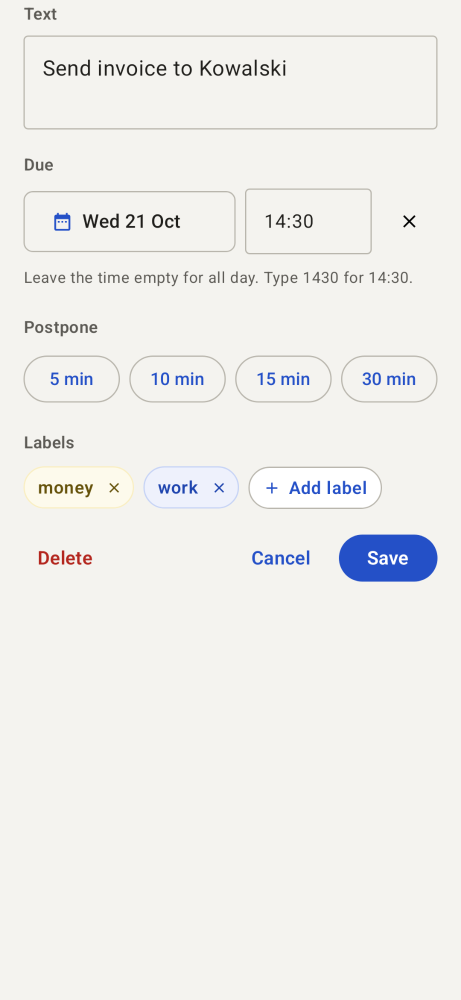
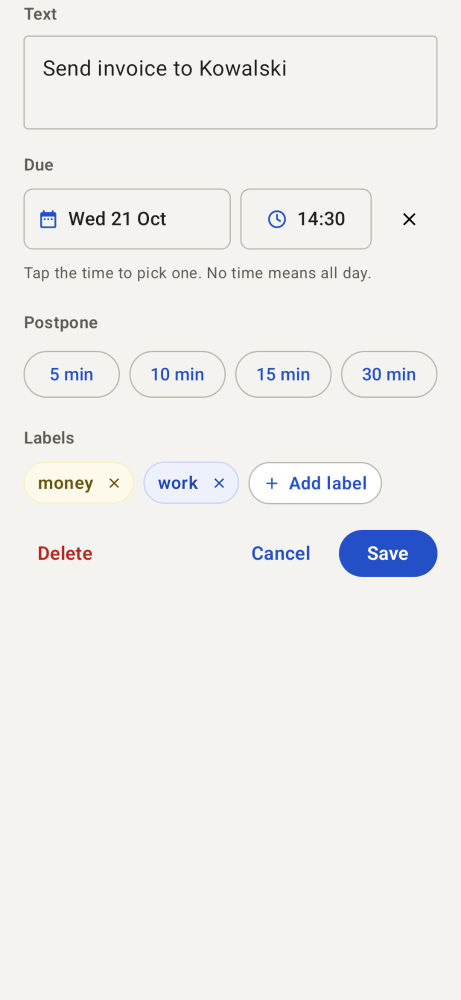
feat(android): "Date" button and a 24-hour time picker in the item sheet
The date button has less padding and shows "Date" when empty, so it fits on a
360 dp phone. The time field is now a button that opens the Material 3 time
picker, with a keyboard mode and "All day". The API still gets "HH:MM".

diff --git a/android/app/src/main/kotlin/dev/toodoo/ui/ItemSheet.kt b/android/app/src/main/kotlin/dev/toodoo/ui/ItemSheet.kt
@@ -2,6 +2,7 @@ package dev.toodoo.ui
 
 import androidx.compose.foundation.BorderStroke
 import androidx.compose.foundation.layout.Arrangement
+import androidx.compose.foundation.layout.Box
 import androidx.compose.foundation.layout.Column
 import androidx.compose.foundation.layout.ExperimentalLayoutApi
 import androidx.compose.foundation.layout.FlowRow
@@ -22,12 +23,14 @@ import androidx.compose.material.icons.Icons
 import androidx.compose.material.icons.filled.Add
 import androidx.compose.material.icons.filled.Close
 import androidx.compose.material.icons.filled.DateRange
+import androidx.compose.material3.BasicAlertDialog
 import androidx.compose.material3.Button
 import androidx.compose.material3.DatePicker
 import androidx.compose.material3.DatePickerDialog
 import androidx.compose.material3.ExperimentalMaterial3Api
 import androidx.compose.material3.Icon
 import androidx.compose.material3.IconButton
+import androidx.compose.material3.LocalContentColor
 import androidx.compose.material3.MaterialTheme
 import androidx.compose.material3.ModalBottomSheet
 import androidx.compose.material3.OutlinedButton
@@ -35,8 +38,12 @@ import androidx.compose.material3.OutlinedTextField
 import androidx.compose.material3.Surface
 import androidx.compose.material3.Text
 import androidx.compose.material3.TextButton
+import androidx.compose.material3.TimeInput
+import androidx.compose.material3.TimePicker
+import androidx.compose.material3.TimePickerState
 import androidx.compose.material3.rememberDatePickerState
 import androidx.compose.material3.rememberModalBottomSheetState
+import androidx.compose.material3.rememberTimePickerState
 import androidx.compose.runtime.Composable
 import androidx.compose.runtime.getValue
 import androidx.compose.runtime.mutableStateOf
@@ -50,13 +57,14 @@ import androidx.compose.ui.semantics.contentDescription
 import androidx.compose.ui.semantics.semantics
 import androidx.compose.ui.text.font.FontWeight
 import androidx.compose.ui.text.input.KeyboardCapitalization
-import androidx.compose.ui.text.input.KeyboardType
+import androidx.compose.ui.text.style.TextOverflow
 import androidx.compose.ui.unit.dp
 import androidx.compose.ui.unit.sp
 import dev.toodoo.api.Item
 import dev.toodoo.api.Label
 import java.time.Instant
 import java.time.LocalDate
+import java.time.LocalTime
 import java.time.ZoneId
 import java.time.ZoneOffset
 import java.time.format.DateTimeFormatter
@@ -67,7 +75,29 @@ import kotlinx.coroutines.launch
 val POSTPONE_MINUTES = listOf(5, 10, 15, 30)
 
 private val dateButton = DateTimeFormatter.ofPattern("EEE d MMM", Locale.ENGLISH)
-private val dateButtonYear = DateTimeFormatter.ofPattern("EEE d MMM yyyy", Locale.ENGLISH)
+private val dateButtonYear = DateTimeFormatter.ofPattern("d MMM yyyy", Locale.ENGLISH)
+
+/** The date button's text: "Date" with no date; the weekday only in this year, so the text stays short. */
+fun dateButtonText(date: LocalDate?, today: LocalDate): String =
+    date?.format(if (date.year == today.year) dateButton else dateButtonYear) ?: "Date"
+
+/** The time button's text: the time, "All day" for a date with no time, or "Time" with no date. */
+fun timeButtonText(time: String, hasDate: Boolean): String = when {
+    !hasDate -> "Time"
+    time.isEmpty() -> "All day"
+    else -> time
+}
+
+/** The hour and minute the time picker opens at: the item's time ("HH:MM"), or the next full hour. */
+fun pickerStart(time: String, now: LocalTime): Pair<Int, Int> {
+    val parts = time.split(":")
+    val hour = parts.getOrNull(0)?.toIntOrNull()
+    val minute = parts.getOrNull(1)?.toIntOrNull()
+    return if (hour != null && minute != null) Pair(hour, minute) else Pair((now.hour + 1) % 24, 0)
+}
+
+/** "HH:MM", as the API takes it. */
+fun clockText(hour: Int, minute: Int): String = "%02d:%02d".format(hour, minute)
 
 /** The due date and time of [item] in [zone], as the sheet's fields show them: the time is "" for all day. */
 fun dueFields(item: Item, zone: ZoneId): Pair<LocalDate?, String> {
@@ -116,6 +146,7 @@ fun ItemSheetBody(
     var date by remember(item.id, startDate) { mutableStateOf(startDate) }
     var time by rememberSaveable(item.id, startTime) { mutableStateOf(startTime) }
     var picking by remember { mutableStateOf(false) }
+    var pickingTime by remember { mutableStateOf(false) }
     var busy by remember { mutableStateOf(false) }
     val scope = rememberCoroutineScope()
     val colors = MaterialTheme.colorScheme
@@ -154,24 +185,29 @@ fun ItemSheetBody(
         Column(verticalArrangement = Arrangement.spacedBy(8.dp)) {
             label("Due")
             Row(horizontalArrangement = Arrangement.spacedBy(8.dp), verticalAlignment = Alignment.CenterVertically) {
+                // 12 dp side padding (not the default 24), so a date fits on a 360 dp phone.
                 OutlinedButton(
                     onClick = { picking = true },
                     shape = RoundedCornerShape(8.dp),
+                    contentPadding = PaddingValues(horizontal = 12.dp),
                     modifier = Modifier.weight(1f).height(52.dp),
                 ) {
                     Icon(Icons.Filled.DateRange, contentDescription = null, modifier = Modifier.size(18.dp))
                     Spacer(Modifier.width(8.dp))
-                    Text(date?.let { it.format(if (it.year == LocalDate.now(zone).year) dateButton else dateButtonYear) } ?: "Pick a date", maxLines = 1, fontSize = 16.sp, color = colors.onSurface, modifier = Modifier.weight(1f))
+                    Text(dateButtonText(date, LocalDate.now(zone)), maxLines = 1, overflow = TextOverflow.Ellipsis, fontSize = 16.sp, color = colors.onSurface, modifier = Modifier.weight(1f))
                 }
-                OutlinedTextField(
-                    value = time,
-                    onValueChange = { time = it.take(5) },
-                    placeholder = { Text("All day", fontSize = 15.sp) },
-                    singleLine = true,
+                val timeText = timeButtonText(time, hasDate = date != null)
+                OutlinedButton(
+                    onClick = { pickingTime = true },
                     enabled = date != null,
-                    keyboardOptions = KeyboardOptions(keyboardType = KeyboardType.Number),
-                    modifier = Modifier.width(108.dp).semantics { contentDescription = "Time" },
-                )
+                    shape = RoundedCornerShape(8.dp),
+                    contentPadding = PaddingValues(horizontal = 12.dp),
+                    modifier = Modifier.width(112.dp).height(52.dp).semantics { contentDescription = "Time: $timeText" },
+                ) {
+                    ClockIcon(LocalContentColor.current)
+                    Spacer(Modifier.width(8.dp))
+                    Text(timeText, maxLines = 1, fontSize = 16.sp, color = if (date != null) colors.onSurface else LocalContentColor.current)
+                }
                 IconButton(onClick = {
                     date = null
                     time = ""
@@ -179,7 +215,7 @@ fun ItemSheetBody(
                     Icon(Icons.Filled.Close, contentDescription = "Clear the due date", modifier = Modifier.size(18.dp))
                 }
             }
-            Text("Leave the time empty for all day. Type 1430 for 14:30.", fontSize = 13.sp, color = colors.onSurfaceVariant)
+            Text("Tap the time to pick one. No time means all day.", fontSize = 13.sp, color = colors.onSurfaceVariant)
         }
 
         if (item.dueAt != null && !item.done) {
@@ -235,6 +271,56 @@ fun ItemSheetBody(
             },
             dismissButton = { TextButton(onClick = { picking = false }) { Text("Cancel") } },
         ) { DatePicker(state) }
+    }
+
+    if (pickingTime) {
+        TimePickerDialog(time, zone, onPick = {
+            time = it
+            pickingTime = false
+        }, onDismiss = { pickingTime = false })
+    }
+}
+
+/**
+ * The time picker (mockup "Date button and time picker", page 17): the
+ * 24-hour dial, as in Google Calendar. [onPick] gets "HH:MM", or "" for
+ * "All day".
+ */
+@OptIn(ExperimentalMaterial3Api::class)
+@Composable
+fun TimePickerDialog(time: String, zone: ZoneId, onPick: (String) -> Unit, onDismiss: () -> Unit) {
+    val (hour, minute) = remember(time) { pickerStart(time, LocalTime.now(zone)) }
+    val state = rememberTimePickerState(initialHour = hour, initialMinute = minute, is24Hour = true)
+    BasicAlertDialog(onDismissRequest = onDismiss) {
+        TimePickerBody(state, onOk = { onPick(clockText(state.hour, state.minute)) }, onAllDay = { onPick("") }, onDismiss = onDismiss)
+    }
+}
+
+/** The inside of the time picker. The keyboard icon switches to two number fields and back. */
+@OptIn(ExperimentalMaterial3Api::class)
+@Composable
+fun TimePickerBody(state: TimePickerState, onOk: () -> Unit, onAllDay: () -> Unit, onDismiss: () -> Unit, startTyping: Boolean = false) {
+    var typing by rememberSaveable { mutableStateOf(startTyping) }
+    val colors = MaterialTheme.colorScheme
+    Surface(shape = RoundedCornerShape(28.dp), color = colors.surface, tonalElevation = 6.dp) {
+        Column(Modifier.padding(24.dp), verticalArrangement = Arrangement.spacedBy(20.dp)) {
+            Text(if (typing) "Enter time" else "Select time", fontSize = 13.sp, fontWeight = FontWeight.SemiBold, color = colors.onSurfaceVariant)
+            Box(Modifier.fillMaxWidth(), contentAlignment = Alignment.Center) {
+                if (typing) TimeInput(state) else TimePicker(state)
+            }
+            Row(verticalAlignment = Alignment.CenterVertically) {
+                IconButton(
+                    onClick = { typing = !typing },
+                    modifier = Modifier.semantics { contentDescription = if (typing) "Use the clock dial" else "Type the time" },
+                ) {
+                    if (typing) ClockIcon(colors.onSurfaceVariant, size = 24.dp) else KeyboardIcon(colors.onSurfaceVariant)
+                }
+                Spacer(Modifier.weight(1f))
+                TextButton(onClick = onAllDay) { Text("All day") }
+                TextButton(onClick = onDismiss) { Text("Cancel") }
+                TextButton(onClick = onOk) { Text("OK") }
+            }
+        }
     }
 }
 

diff --git a/android/app/src/test/kotlin/dev/toodoo/ScreenshotTest.kt b/android/app/src/test/kotlin/dev/toodoo/ScreenshotTest.kt
@@ -7,11 +7,15 @@ import androidx.activity.result.contract.ActivityResultContract
 import androidx.compose.foundation.background
 import androidx.compose.foundation.layout.Box
 import androidx.compose.foundation.layout.fillMaxSize
+import androidx.compose.foundation.layout.padding
+import androidx.compose.material3.ExperimentalMaterial3Api
 import androidx.compose.material3.MaterialTheme
+import androidx.compose.material3.rememberTimePickerState
 import androidx.compose.runtime.Composable
 import androidx.compose.runtime.CompositionLocalProvider
 import androidx.core.app.ActivityOptionsCompat
 import androidx.compose.ui.Modifier
+import androidx.compose.ui.unit.dp
 import app.cash.paparazzi.DeviceConfig
 import app.cash.paparazzi.Paparazzi
 import com.android.resources.NightMode
@@ -24,6 +28,7 @@ import dev.toodoo.ui.ListActions
 import dev.toodoo.ui.ListScreen
 import dev.toodoo.ui.ListState
 import dev.toodoo.ui.PickerMode
+import dev.toodoo.ui.TimePickerBody
 import dev.toodoo.ui.TooDooTheme
 import java.time.LocalDate
 import java.time.ZoneId
@@ -126,6 +131,43 @@ class ScreenshotTest {
     @Test
     fun itemSheet() = snap {
         ItemSheetBody(items[1], onSave = { _, _ -> true }, onPostpone = {}, onRemoveLabel = {}, onAddLabel = {}, onDelete = {}, onDismiss = {})
+    }
+
+    // No date: "Date", and the time button is off.
+    @Test
+    fun itemSheetNoDate() = snap {
+        ItemSheetBody(items[2], onSave = { _, _ -> true }, onPostpone = {}, onRemoveLabel = {}, onAddLabel = {}, onDelete = {}, onDismiss = {})
+    }
+
+    // A 360 dp phone and a date in another year, the longest date text: it must fit.
+    @Test
+    fun itemSheetSmallPhone() {
+        paparazzi.unsafeUpdateConfig(DeviceConfig.NEXUS_5)
+        val nextYear = ZonedDateTime.now().plusYears(1).withHour(14).withMinute(30).toInstant().toString()
+        snap {
+            ItemSheetBody(items[1].copy(dueAt = nextYear), onSave = { _, _ -> true }, onPostpone = {}, onRemoveLabel = {}, onAddLabel = {}, onDelete = {}, onDismiss = {})
+        }
+    }
+
+    @Test
+    fun itemSheetAllDay() = snap {
+        ItemSheetBody(items[3], onSave = { _, _ -> true }, onPostpone = {}, onRemoveLabel = {}, onAddLabel = {}, onDelete = {}, onDismiss = {})
+    }
+
+    @OptIn(ExperimentalMaterial3Api::class)
+    @Test
+    fun timePicker() = snap {
+        Box(Modifier.padding(24.dp)) {
+            TimePickerBody(rememberTimePickerState(14, 30, is24Hour = true), onOk = {}, onAllDay = {}, onDismiss = {})
+        }
+    }
+
+    @OptIn(ExperimentalMaterial3Api::class)
+    @Test
+    fun timeInput() = snap {
+        Box(Modifier.padding(24.dp)) {
+            TimePickerBody(rememberTimePickerState(14, 30, is24Hour = true), onOk = {}, onAllDay = {}, onDismiss = {}, startTyping = true)
+        }
     }
 
     @Test

diff --git a/android/app/src/main/kotlin/dev/toodoo/ui/Icons.kt b/android/app/src/main/kotlin/dev/toodoo/ui/Icons.kt
@@ -4,11 +4,15 @@ import androidx.compose.foundation.Canvas
 import androidx.compose.foundation.layout.size
 import androidx.compose.runtime.Composable
 import androidx.compose.ui.Modifier
+import androidx.compose.ui.geometry.CornerRadius
 import androidx.compose.ui.geometry.Offset
+import androidx.compose.ui.geometry.Size
 import androidx.compose.ui.graphics.Color
 import androidx.compose.ui.graphics.Path
+import androidx.compose.ui.graphics.StrokeCap
 import androidx.compose.ui.graphics.StrokeJoin
 import androidx.compose.ui.graphics.drawscope.Stroke
+import androidx.compose.ui.unit.Dp
 import androidx.compose.ui.unit.dp
 
 // Icons that material-icons-core lacks, drawn like the mockups (page 17).
@@ -40,5 +44,33 @@ fun TagIcon(color: Color, modifier: Modifier = Modifier) {
         }
         drawPath(path, color, style = Stroke(width = 1.8f * u, join = StrokeJoin.Round))
         drawCircle(color, 1.6f * u, Offset(8 * u, 8 * u))
+    }
+}
+
+/** A clock, for the time button and for the dial switch of the time picker. */
+@Composable
+fun ClockIcon(color: Color, modifier: Modifier = Modifier, size: Dp = 18.dp) {
+    Canvas(modifier.size(size)) {
+        val u = this.size.width / 24f
+        drawCircle(color, 9 * u, Offset(12 * u, 12 * u), style = Stroke(width = 2f * u))
+        val hands = Path().apply {
+            moveTo(12 * u, 7 * u)
+            lineTo(12 * u, 12 * u)
+            lineTo(15.5f * u, 14 * u)
+        }
+        drawPath(hands, color, style = Stroke(width = 2f * u, cap = StrokeCap.Round, join = StrokeJoin.Round))
+    }
+}
+
+/** A keyboard, for the switch from the dial to typing the time. */
+@Composable
+fun KeyboardIcon(color: Color, modifier: Modifier = Modifier) {
+    Canvas(modifier.size(24.dp)) {
+        val u = size.width / 24f
+        drawRoundRect(color, Offset(2.5f * u, 6 * u), Size(19 * u, 12 * u), CornerRadius(2 * u), style = Stroke(width = 1.6f * u))
+        for (y in listOf(9.5f, 12.5f)) for (x in listOf(6.5f, 10f, 13.5f, 17f)) {
+            drawCircle(color, 0.9f * u, Offset(x * u, y * u))
+        }
+        drawLine(color, Offset(8 * u, 15 * u), Offset(16 * u, 15 * u), strokeWidth = 1.6f * u, cap = StrokeCap.Round)
     }
 }

diff --git a/android/app/src/test/kotlin/dev/toodoo/SheetAndWheelTest.kt b/android/app/src/test/kotlin/dev/toodoo/SheetAndWheelTest.kt
@@ -1,12 +1,17 @@
 package dev.toodoo
 
 import dev.toodoo.api.Item
+import dev.toodoo.ui.clockText
+import dev.toodoo.ui.dateButtonText
 import dev.toodoo.ui.dueFields
 import dev.toodoo.ui.hslToHex
 import dev.toodoo.ui.moveBy
+import dev.toodoo.ui.pickerStart
+import dev.toodoo.ui.timeButtonText
 import dev.toodoo.ui.wheelColor
 import dev.toodoo.ui.wheelPick
 import java.time.LocalDate
+import java.time.LocalTime
 import java.time.ZoneId
 import org.junit.Assert.assertEquals
 import org.junit.Assert.assertNull
@@ -20,6 +25,36 @@ class SheetAndWheelTest {
         assertEquals(Pair(LocalDate.of(2026, 10, 22), "14:30"), dueFields(Item(1, "a", false, dueAt = "2026-10-22T12:30:00Z"), warsaw))
         assertEquals(Pair(LocalDate.of(2026, 10, 22), ""), dueFields(Item(1, "a", false, dueAt = "2026-10-22T07:00:00Z", dueAllDay = true), warsaw))
         assertEquals(Pair(null, ""), dueFields(Item(1, "a", false), warsaw))
+    }
+
+    @Test
+    fun dateButtonShowsTheDateOrDate() {
+        val today = LocalDate.of(2026, 10, 21)
+        assertEquals("Date", dateButtonText(null, today))
+        assertEquals("Wed 21 Oct", dateButtonText(today, today))
+        assertEquals("21 Oct 2027", dateButtonText(LocalDate.of(2027, 10, 21), today))
+    }
+
+    @Test
+    fun timeButtonShowsTheTimeOrAllDay() {
+        assertEquals("Time", timeButtonText("", hasDate = false))
+        assertEquals("All day", timeButtonText("", hasDate = true))
+        assertEquals("14:30", timeButtonText("14:30", hasDate = true))
+    }
+
+    @Test
+    fun pickerStartsAtTheTimeOrTheNextHour() {
+        assertEquals(Pair(14, 30), pickerStart("14:30", LocalTime.of(9, 10)))
+        assertEquals(Pair(10, 0), pickerStart("", LocalTime.of(9, 10)))
+        assertEquals(Pair(10, 0), pickerStart("", LocalTime.of(9, 0)))
+        assertEquals(Pair(0, 0), pickerStart("", LocalTime.of(23, 30)))
+    }
+
+    @Test
+    fun clockTextHasTwoDigits() {
+        assertEquals("09:05", clockText(9, 5))
+        assertEquals("00:00", clockText(0, 0))
+        assertEquals("23:59", clockText(23, 59))
     }
 
     @Test

diff --git a/docs/user-guide.md b/docs/user-guide.md
@@ -207,9 +207,10 @@ web, so a change on the phone shows in the browser and the other way round.
 - **The list:** tap the circle to check an item off, swipe a row to the left to delete it (tap
   Undo to keep it), pull down to load the list again. Long-press the grip (⋮⋮) and drag to
   change the order.
-- **An item:** tap its text. The sheet has the text, the due date (type 1430 for 14:30, leave
-  the time empty for all day), Postpone, the labels, and Delete. Save sends the text and the due
-  date.
+- **An item:** tap its text. The sheet has the text, the due date, Postpone, the labels, and
+  Delete. Tap "Date" to pick the day. Then tap the time button to pick the time on a 24-hour
+  clock. The keyboard icon in the time picker lets you type the time instead. "All day" removes
+  the time. Save sends the text and the due date.
 - **Labels:** "Add label" in the sheet opens the label list: tap names to add or remove them,
   type a new name to create it, tap a color dot for the color wheel, and the × deletes a label.
   The tag button at the top shows only the items of one label.
